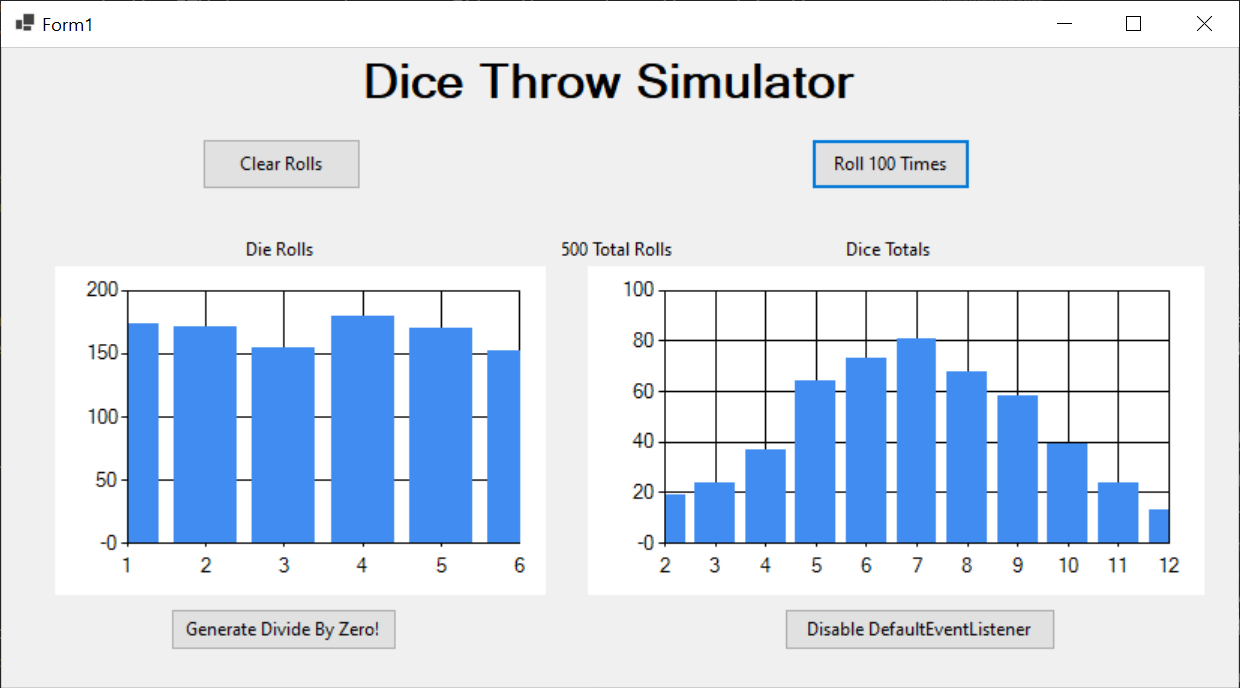
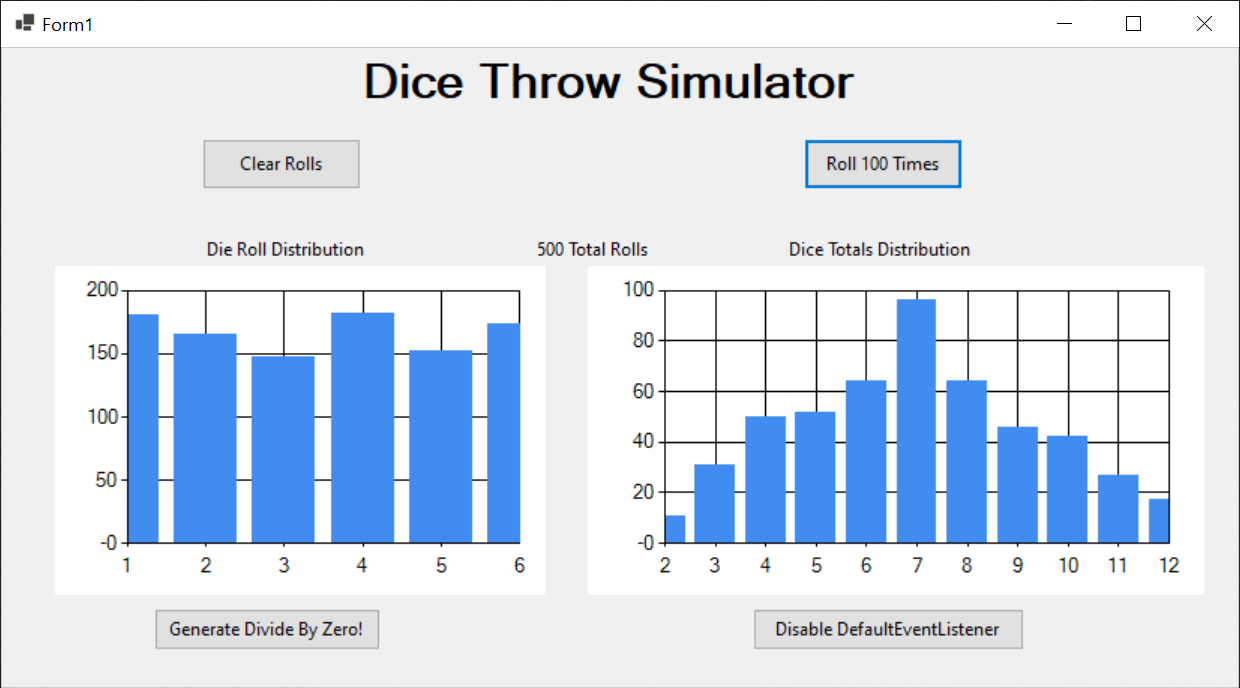
Updated Form1 design.

diff --git a/DiceThrowLogDemo/Form1.Designer.cs b/DiceThrowLogDemo/Form1.Designer.cs
@@ -41,7 +41,7 @@ namespace DataVisualizationDotNetCore
             // 
             // AddRolls
             // 
-            this.AddRolls.Location = new System.Drawing.Point(772, 102);
+            this.AddRolls.Location = new System.Drawing.Point(764, 102);
             this.AddRolls.Name = "AddRolls";
             this.AddRolls.Size = new System.Drawing.Size(152, 56);
             this.AddRolls.TabIndex = 2;
@@ -61,7 +61,7 @@ namespace DataVisualizationDotNetCore
             // 
             // ExceptionButton
             // 
-            this.ExceptionButton.Location = new System.Drawing.Point(161, 624);
+            this.ExceptionButton.Location = new System.Drawing.Point(145, 624);
             this.ExceptionButton.Name = "ExceptionButton";
             this.ExceptionButton.Size = new System.Drawing.Size(216, 46);
             this.ExceptionButton.TabIndex = 4;
@@ -82,25 +82,25 @@ namespace DataVisualizationDotNetCore
             // label1
             // 
             this.label1.AutoSize = true;
-            this.label1.Location = new System.Drawing.Point(229, 211);
+            this.label1.Location = new System.Drawing.Point(191, 211);
             this.label1.Name = "label1";
-            this.label1.Size = new System.Drawing.Size(80, 25);
+            this.label1.Size = new System.Drawing.Size(170, 25);
             this.label1.TabIndex = 6;
-            this.label1.Text = "Die Rolls";
+            this.label1.Text = "Die Roll Distribution";
             // 
             // label2
             // 
             this.label2.AutoSize = true;
-            this.label2.Location = new System.Drawing.Point(800, 211);
+            this.label2.Location = new System.Drawing.Point(746, 211);
             this.label2.Name = "label2";
-            this.label2.Size = new System.Drawing.Size(96, 25);
+            this.label2.Size = new System.Drawing.Size(194, 25);
             this.label2.TabIndex = 7;
-            this.label2.Text = "Dice Totals";
+            this.label2.Text = "Dice Totals Distribution";
             // 
             // RollTotalLabel
             // 
             this.RollTotalLabel.AutoSize = true;
-            this.RollTotalLabel.Location = new System.Drawing.Point(529, 211);
+            this.RollTotalLabel.Location = new System.Drawing.Point(506, 211);
             this.RollTotalLabel.Name = "RollTotalLabel";
             this.RollTotalLabel.Size = new System.Drawing.Size(106, 25);
             this.RollTotalLabel.TabIndex = 8;
@@ -108,7 +108,7 @@ namespace DataVisualizationDotNetCore
             // 
             // DefaultEventListenerButton
             // 
-            this.DefaultEventListenerButton.Location = new System.Drawing.Point(746, 624);
+            this.DefaultEventListenerButton.Location = new System.Drawing.Point(716, 624);
             this.DefaultEventListenerButton.Name = "DefaultEventListenerButton";
             this.DefaultEventListenerButton.Size = new System.Drawing.Size(259, 46);
             this.DefaultEventListenerButton.TabIndex = 9;
